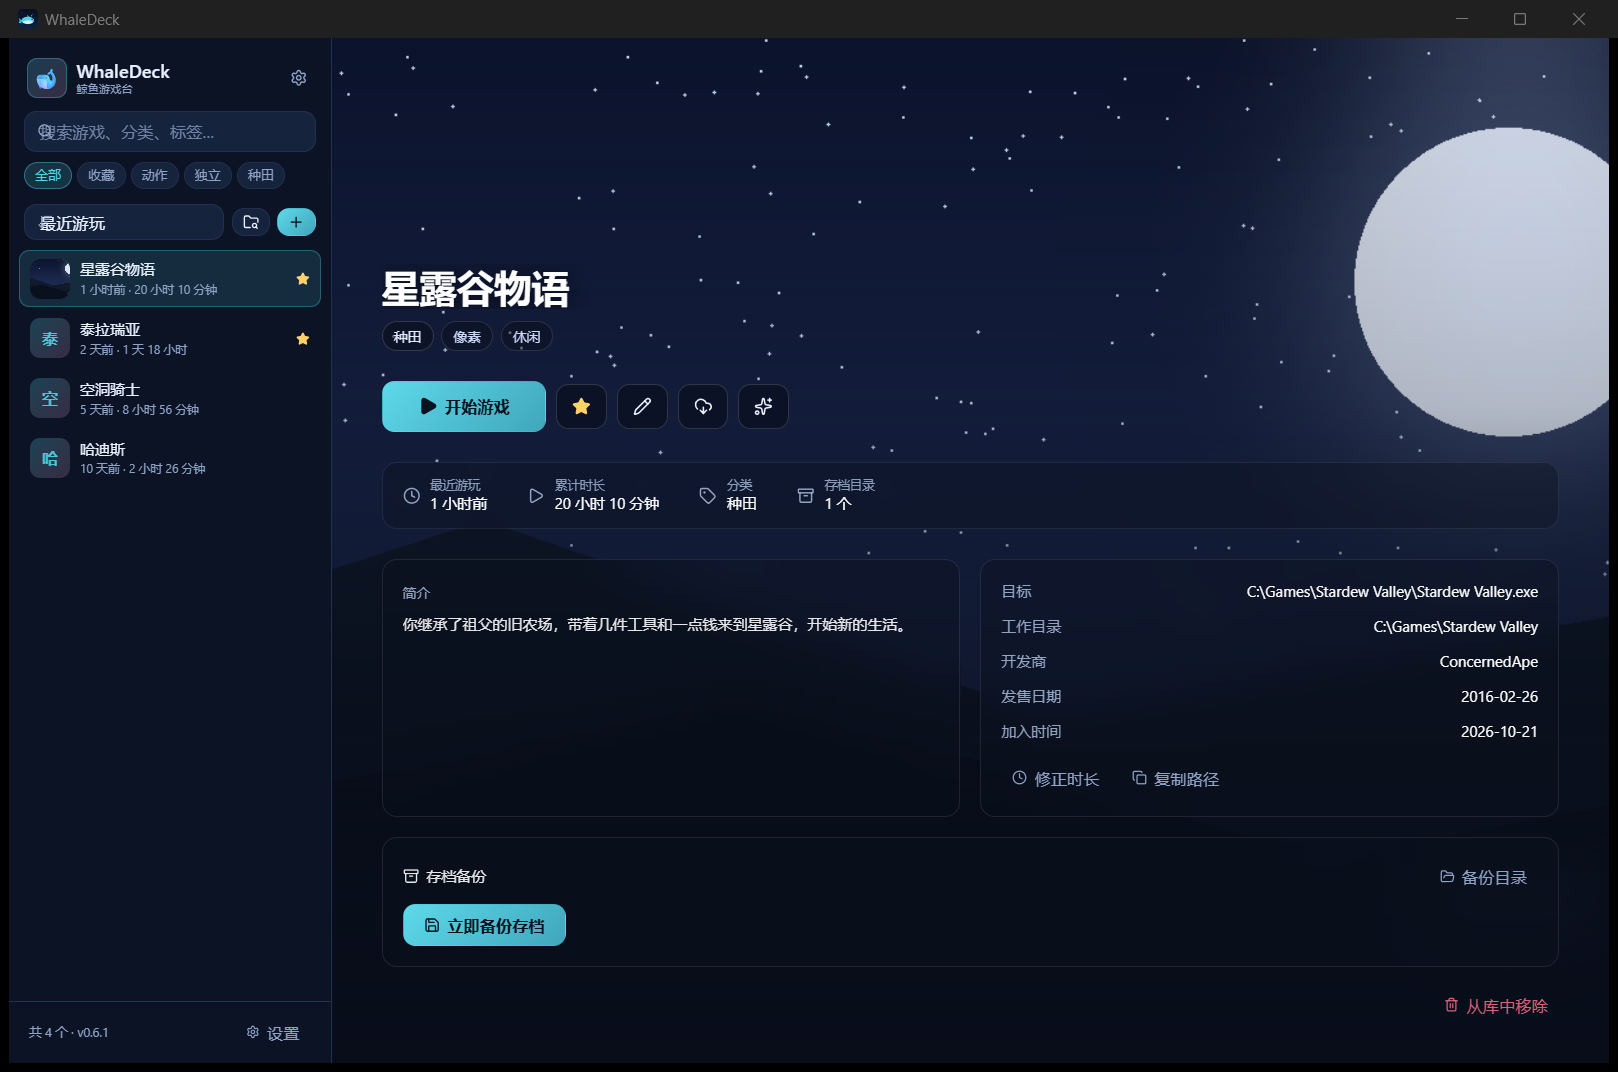
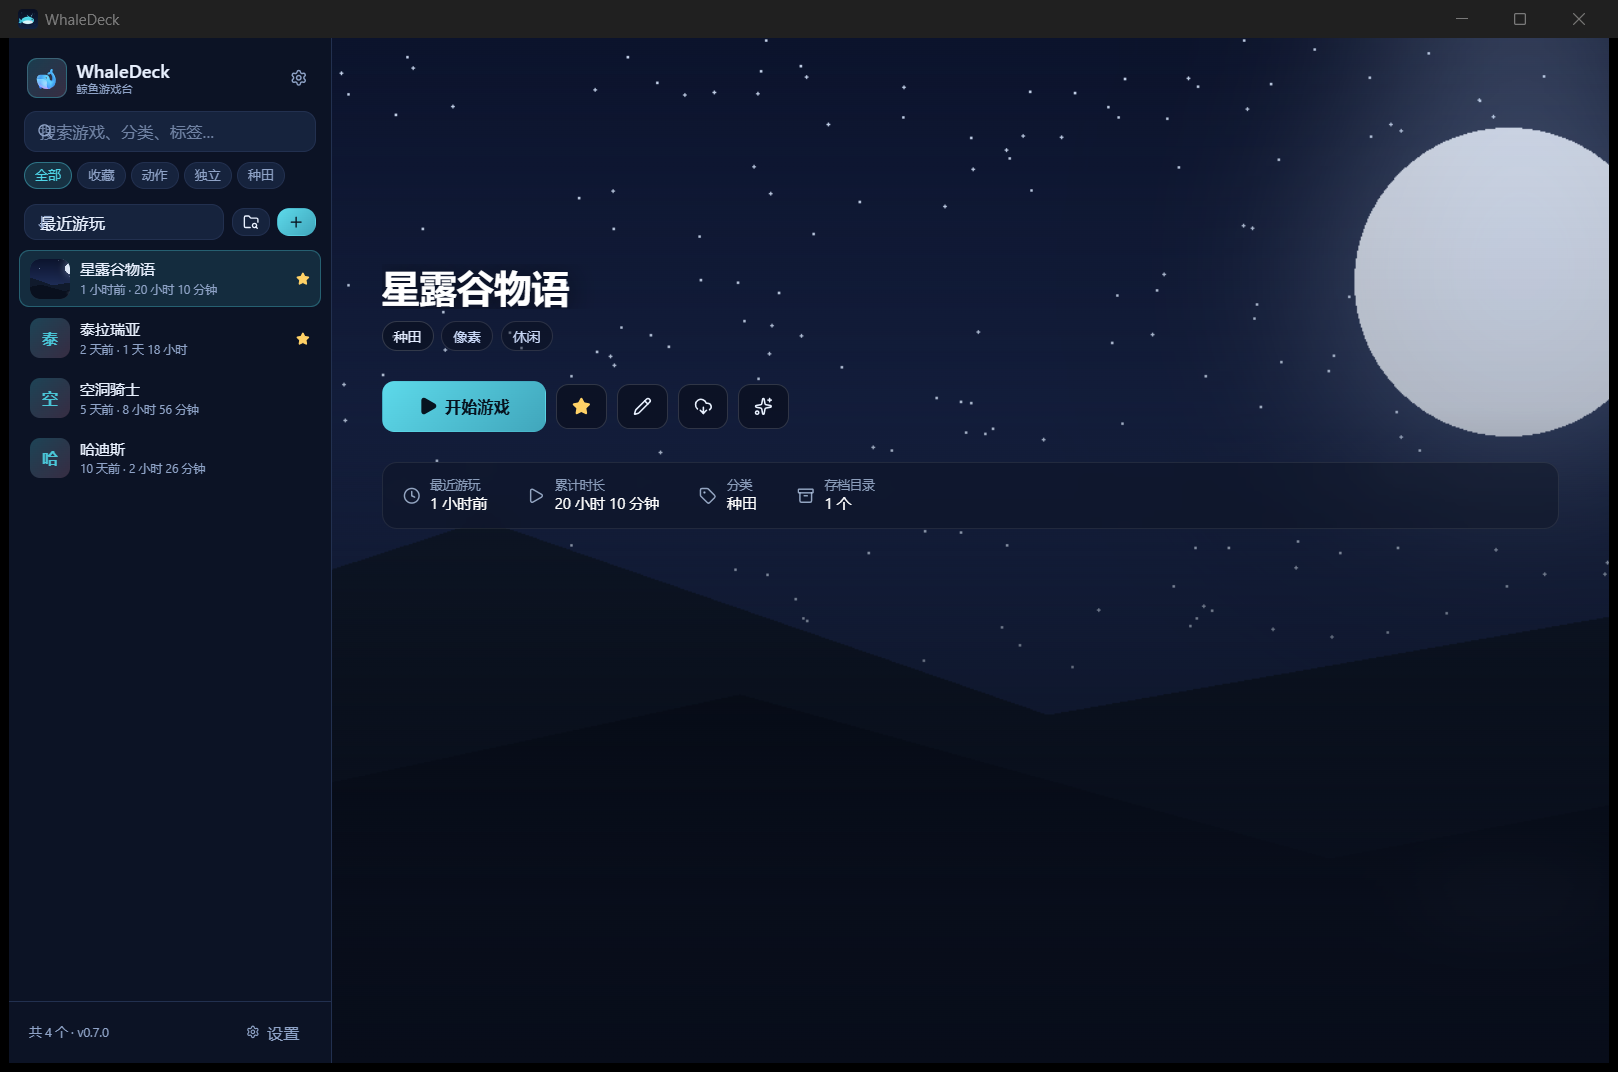
feat: v0.7 隐藏式详情 + 通用自动补全
- 右下详情卡片默认隐藏，鼠标悬停才淡入显示（标题/开始游戏/统计栏常显）

- 新增 autofill：读取 exe 版本资源（产品名/公司/描述/版本）补全标题、开发商、备注

- 封面优先本地图片，找不到时回退系统图标（适合 QQ 等软件）

- 测试：Rust 29 项；版本号 0.7.0

diff --git a/src/components/GameDetail.tsx b/src/components/GameDetail.tsx
@@ -138,12 +138,15 @@ export function GameDetail() {
       .catch(() => showToast("error", "复制失败"));
   };
 
-  const applyAutoCover = async () => {
+  const applyAutofill = async () => {
     setCoverBusy(true);
     try {
-      const outcome = await api.autoCover(game.id);
-      applyGame({ ...game, coverFile: outcome.coverFile });
-      showToast("success", `已使用本地封面：${outcome.detail}`);
+      const result = await api.autofill(game.id);
+      applyGame(result.game);
+      const coverText = result.kind === "local" ? `本地封面：${result.detail}` : "程序图标";
+      const extra =
+        result.filled.length > 0 ? `，补全了 ${result.filled.join("、")}` : "";
+      showToast("success", `已使用${coverText}${extra}`);
     } catch (err) {
       showToast("error", String(err));
     } finally {
@@ -276,9 +279,9 @@ export function GameDetail() {
                 </button>
                 <button
                   className="btn !border-white/15 !bg-black/35 !px-3 !py-2.5 text-white backdrop-blur-md"
-                  onClick={() => void applyAutoCover()}
+                  onClick={() => void applyAutofill()}
                   disabled={coverBusy}
-                  title="自动封面：在游戏目录里找 cover / header / poster 等图片"
+                  title="自动补全：读程序信息，封面优先本地图片，找不到就用图标"
                 >
                   <Sparkles size={15} />
                 </button>
@@ -307,8 +310,10 @@ export function GameDetail() {
             </div>
           </div>
 
-          {/* 详情卡片 */}
-          <div className="mt-6 grid grid-cols-1 gap-4 xl:grid-cols-2">
+          {/* 详情区：鼠标移入才显示 */}
+          <div className="group/details mt-6">
+            <div className="pointer-events-none translate-y-2 opacity-0 transition-all duration-200 group-hover/details:pointer-events-auto group-hover/details:translate-y-0 group-hover/details:opacity-100">
+              <div className="grid grid-cols-1 gap-4 xl:grid-cols-2">
             {game.summary && (
               <section
                 className="rounded-xl p-4 text-[12px] leading-5"
@@ -486,6 +491,8 @@ export function GameDetail() {
                 从库中移除
               </button>
             )}
+          </div>
+            </div>
           </div>
         </div>
       </div>

diff --git a/src/lib/ipc.ts b/src/lib/ipc.ts
@@ -1,7 +1,7 @@
 import { convertFileSrc, invoke } from "@tauri-apps/api/core";
 import { listen } from "@tauri-apps/api/event";
 import type {
-  CoverOutcome,
+  AutofillResult,
   Game,
   LaunchResult,
   MetaItem,
@@ -49,8 +49,7 @@ export const api = {
     invoke<MetaItem[]>("search_meta", { source, keyword }),
   applyMeta: (gameId: string, item: MetaItem) =>
     invoke<Game>("apply_meta", { gameId, item }),
-  autoCover: (gameId: string) =>
-    invoke<CoverOutcome>("auto_cover", { gameId }),
+  autofill: (gameId: string) => invoke<AutofillResult>("autofill", { gameId }),
 };
 
 export function fileUrl(absPath: string): string {

diff --git a/src/components/SettingsPanel.tsx b/src/components/SettingsPanel.tsx
@@ -310,7 +310,7 @@ export function SettingsPanel() {
 
         <Section title="关于" icon={<Palette size={14} />}>
           <div className="space-y-1 text-[12px]" style={{ color: "var(--text-dim)" }}>
-            <p className="m-0">WhaleDeck v0.6.1 · 本地游戏 / 项目启动台</p>
+            <p className="m-0">WhaleDeck v0.7.0 · 本地游戏 / 项目启动台</p>
             <p className="m-0">
               GitHub:{" "}
               <span className="select-text" style={{ color: "var(--primary)" }}>

diff --git a/src/components/Sidebar.tsx b/src/components/Sidebar.tsx
@@ -227,7 +227,7 @@ export function Sidebar() {
         style={{ borderColor: "var(--border)" }}
       >
         <span className="text-[10px]" style={{ color: "var(--text-dim)" }}>
-          共 {games.length} 个 · v0.6.1
+          共 {games.length} 个 · v0.7.0
         </span>
         <button
           className="btn btn-ghost !px-2 !py-1 text-[10px]"

diff --git a/src/types.ts b/src/types.ts
@@ -94,10 +94,11 @@ export type MetaItem = {
   rating: number | null;
 };
 
-export type CoverOutcome = {
-  coverFile: string;
+export type AutofillResult = {
+  game: Game;
   kind: "local" | "icon";
   detail: string;
+  filled: string[];
 };
 
 export function newGameDraft(): Game {

diff --git a/src-tauri/src/program.rs b/src-tauri/src/program.rs
@@ -1,0 +1,155 @@
+use std::collections::HashMap;
+
+use windows_sys::Win32::Storage::FileSystem::{
+    GetFileVersionInfoSizeW, GetFileVersionInfoW, VerQueryValueW,
+};
+
+fn to_wide(text: &str) -> Vec<u16> {
+    use std::os::windows::ffi::OsStrExt;
+    std::ffi::OsStr::new(text)
+        .encode_wide()
+        .chain(std::iter::once(0))
+        .collect()
+}
+
+#[derive(Debug, Clone, Default)]
+pub struct ProgramInfo {
+    pub product: String,
+    pub description: String,
+    pub company: String,
+    pub version: String,
+}
+
+impl ProgramInfo {
+    pub fn is_empty(&self) -> bool {
+        self.product.is_empty()
+            && self.description.is_empty()
+            && self.company.is_empty()
+            && self.version.is_empty()
+    }
+}
+
+fn query_string(
+    block: &[u8],
+    language: u16,
+    codepage: u16,
+    key: &str,
+) -> Option<String> {
+    let sub = to_wide(&format!(
+        "\\StringFileInfo\\{language:04x}{codepage:04x}\\{key}"
+    ));
+    let mut ptr: *mut std::ffi::c_void = std::ptr::null_mut();
+    let mut len: u32 = 0;
+    let ok = unsafe {
+        VerQueryValueW(
+            block.as_ptr() as *const _,
+            sub.as_ptr(),
+            &mut ptr,
+            &mut len,
+        )
+    };
+    if ok == 0 || ptr.is_null() || len == 0 {
+        return None;
+    }
+    let slice = unsafe { std::slice::from_raw_parts(ptr as *const u16, len as usize) };
+    let text = String::from_utf16_lossy(slice)
+        .trim_end_matches('\0')
+        .trim()
+        .to_string();
+    if text.is_empty() {
+        None
+    } else {
+        Some(text)
+    }
+}
+
+/// 读取 exe 的版本资源（产品名、描述、公司、版本号）。
+pub fn read_version_info(path: &str) -> Result<ProgramInfo, String> {
+    let wide = to_wide(path);
+    let size = unsafe { GetFileVersionInfoSizeW(wide.as_ptr(), std::ptr::null_mut()) };
+    if size == 0 {
+        return Err("这个程序没有可读取的版本信息".into());
+    }
+
+    let mut block = vec![0u8; size as usize];
+    let ok = unsafe {
+        GetFileVersionInfoW(wide.as_ptr(), 0, size, block.as_mut_ptr() as *mut _)
+    };
+    if ok == 0 {
+        return Err("读取版本信息失败".into());
+    }
+
+    // 先尝试从 Translation 表拿语言/代码页，失败则用常见组合兜底
+    let mut combos: Vec<(u16, u16)> = Vec::new();
+    let sub = to_wide("\\VarFileInfo\\Translation");
+    let mut ptr: *mut std::ffi::c_void = std::ptr::null_mut();
+    let mut len: u32 = 0;
+    let found = unsafe {
+        VerQueryValueW(
+            block.as_ptr() as *const _,
+            sub.as_ptr(),
+            &mut ptr,
+            &mut len,
+        )
+    };
+    if found != 0 && !ptr.is_null() && len >= 4 {
+        let data = unsafe { std::slice::from_raw_parts(ptr as *const u16, 2) };
+        combos.push((data[0], data[1]));
+    }
+    combos.extend([
+        (0x0804, 0x04B0), // 简体中文, Unicode
+        (0x0409, 0x04B0), // 英文, Unicode
+        (0x0409, 0x04E4), // 英文, Windows 1252
+        (0x0804, 0x03A8), // 简体中文, GBK
+    ]);
+    combos.dedup();
+
+    let keys = [
+        "ProductName",
+        "FileDescription",
+        "CompanyName",
+        "FileVersion",
+    ];
+    let mut map: HashMap<&str, String> = HashMap::new();
+    for (lang, cp) in combos {
+        for key in keys {
+            if map.contains_key(key) {
+                continue;
+            }
+            if let Some(value) = query_string(&block, lang, cp, key) {
+                map.insert(key, value);
+            }
+        }
+        if map.len() == keys.len() {
+            break;
+        }
+    }
+
+    Ok(ProgramInfo {
+        product: map.remove("ProductName").unwrap_or_default(),
+        description: map.remove("FileDescription").unwrap_or_default(),
+        company: map.remove("CompanyName").unwrap_or_default(),
+        version: map.remove("FileVersion").unwrap_or_default(),
+    })
+}
+
+#[cfg(test)]
+mod tests {
+    use super::*;
+
+    #[test]
+    fn reads_version_info_from_system_exe() {
+        // 系统记事本通常带版本资源；精简系统可能没有，失败不 panic
+        if let Ok(info) = read_version_info("C:\\Windows\\System32\\notepad.exe") {
+            assert!(
+                !info.is_empty(),
+                "记事本的版本信息不应全为空"
+            );
+        }
+    }
+
+    #[test]
+    fn missing_file_errors() {
+        assert!(read_version_info("C:\\definitely\\missing\\nope.exe").is_err());
+    }
+}

diff --git a/src-tauri/src/commands.rs b/src-tauri/src/commands.rs
@@ -565,22 +565,26 @@ pub async fn apply_meta(
     Ok(snapshot)
 }
 
-// ---------- 自动封面 ----------
+// ---------- 自动封面 / 信息补全 ----------
 
 #[derive(Debug, Clone, Serialize)]
 #[serde(rename_all = "camelCase")]
-pub struct CoverOutcome {
-    pub cover_file: String,
-    /// local = 本地扫描到的封面图；icon = 系统图标
+pub struct AutofillResult {
+    pub game: Game,
+    /// local = 本地封面图；icon = 系统图标
     pub kind: String,
     pub detail: String,
+    /// 从版本资源补到的字段
+    pub filled: Vec<String>,
 }
 
 #[tauri::command]
-pub fn auto_cover(state: State<'_, AppState>, game_id: String) -> Result<CoverOutcome, String> {
+pub fn autofill(state: State<'_, AppState>, game_id: String) -> Result<AutofillResult, String> {
     let game = find_game(&state, &game_id)?;
     let dir = state.store.covers_dir();
     std::fs::create_dir_all(&dir).map_err(|e| e.to_string())?;
+
+    let info = crate::program::read_version_info(&game.exe_path).ok();
 
     let (name, kind, detail) = if let Some(local) = cover::find_local_cover(&game.exe_path) {
         let ext = local
@@ -597,24 +601,62 @@ pub fn auto_cover(state: State<'_, AppState>, game_id: String) -> Result<CoverOu
             .unwrap_or_default();
         (name, "local".to_string(), detail)
     } else {
-        return Err("没找到本地封面图。可以用「联网补全」搜索，或手动选择封面。".into());
+        let (png, width, height) = cover::icon_png(&game.exe_path)?;
+        let name = format!("{game_id}.png");
+        std::fs::write(dir.join(&name), png).map_err(|e| format!("保存图标失败：{e}"))?;
+        (name, "icon".to_string(), format!("{width}×{height} 图标"))
     };
-
     remove_old_assets(&dir, &format!("{game_id}."), Some(&name));
 
+    let mut filled: Vec<String> = Vec::new();
     let mut games = state.games.lock().unwrap();
     let target = games
         .iter_mut()
         .find(|g| g.id == game_id)
         .ok_or_else(|| "游戏记录不存在".to_string())?;
-    target.cover_file = Some(name.clone());
+
+    if let Some(info) = &info {
+        let stem = Path::new(&target.exe_path)
+            .file_stem()
+            .map(|s| s.to_string_lossy().to_string())
+            .unwrap_or_default();
+        let title_is_stem = target.title.trim().eq_ignore_ascii_case(&stem);
+        let new_title = if !info.product.trim().is_empty() {
+            info.product.trim().to_string()
+        } else {
+            info.description.trim().to_string()
+        };
+        if (title_is_stem || target.title.trim().is_empty()) && !new_title.is_empty() {
+            target.title = new_title;
+            filled.push("名称".into());
+        }
+        if target.developer.trim().is_empty() && !info.company.trim().is_empty() {
+            target.developer = info.company.trim().to_string();
+            filled.push("开发商".into());
+        }
+        if target.note.trim().is_empty()
+            && (!info.description.trim().is_empty() || !info.version.trim().is_empty())
+        {
+            let mut note = info.description.trim().to_string();
+            if !info.version.trim().is_empty() {
+                if !note.is_empty() {
+                    note.push_str(" · ");
+                }
+                note.push_str(&format!("v{}", info.version.trim()));
+            }
+            target.note = note;
+            filled.push("备注".into());
+        }
+    }
+
+    target.cover_file = Some(name);
     let snapshot = target.clone();
     state.store.save_games(&games)?;
-    let _ = snapshot;
 
-    Ok(CoverOutcome {
-        cover_file: name,
+    Ok(AutofillResult {
+        game: snapshot,
         kind,
         detail,
+        filled,
     })
 }

diff --git a/src-tauri/src/cover.rs b/src-tauri/src/cover.rs
@@ -250,9 +250,7 @@ pub fn encode_png(rgba: &[u8], width: u32, height: u32) -> Result<Vec<u8>, Strin
 
 /// 提取目标图标并返回 PNG 字节。
 ///
-/// v0.5 起不再用于自动封面（用户不希望封面回退成 exe 图标），
-/// 保留为可选能力，供以后做「用图标当封面」开关。
-#[allow(dead_code)]
+/// 用于普通软件/工具的封面兜底（v0.7 起重新启用，仅在本地找不到封面图时使用）。
 pub fn icon_png(target: &str) -> Result<(Vec<u8>, u32, u32), String> {
     let (rgba, width, height) = shell_icon_png(target)?;
     let png = encode_png(&rgba, width, height)?;

diff --git a/src-tauri/src/lib.rs b/src-tauri/src/lib.rs
@@ -3,6 +3,7 @@ mod cover;
 mod launcher;
 mod meta;
 mod models;
+mod program;
 mod savegame;
 mod store;
 
@@ -71,7 +72,7 @@ pub fn run() {
             commands::import_library,
             commands::search_meta,
             commands::apply_meta,
-            commands::auto_cover,
+            commands::autofill,
         ])
         .run(tauri::generate_context!())
         .expect("error while running tauri application");
